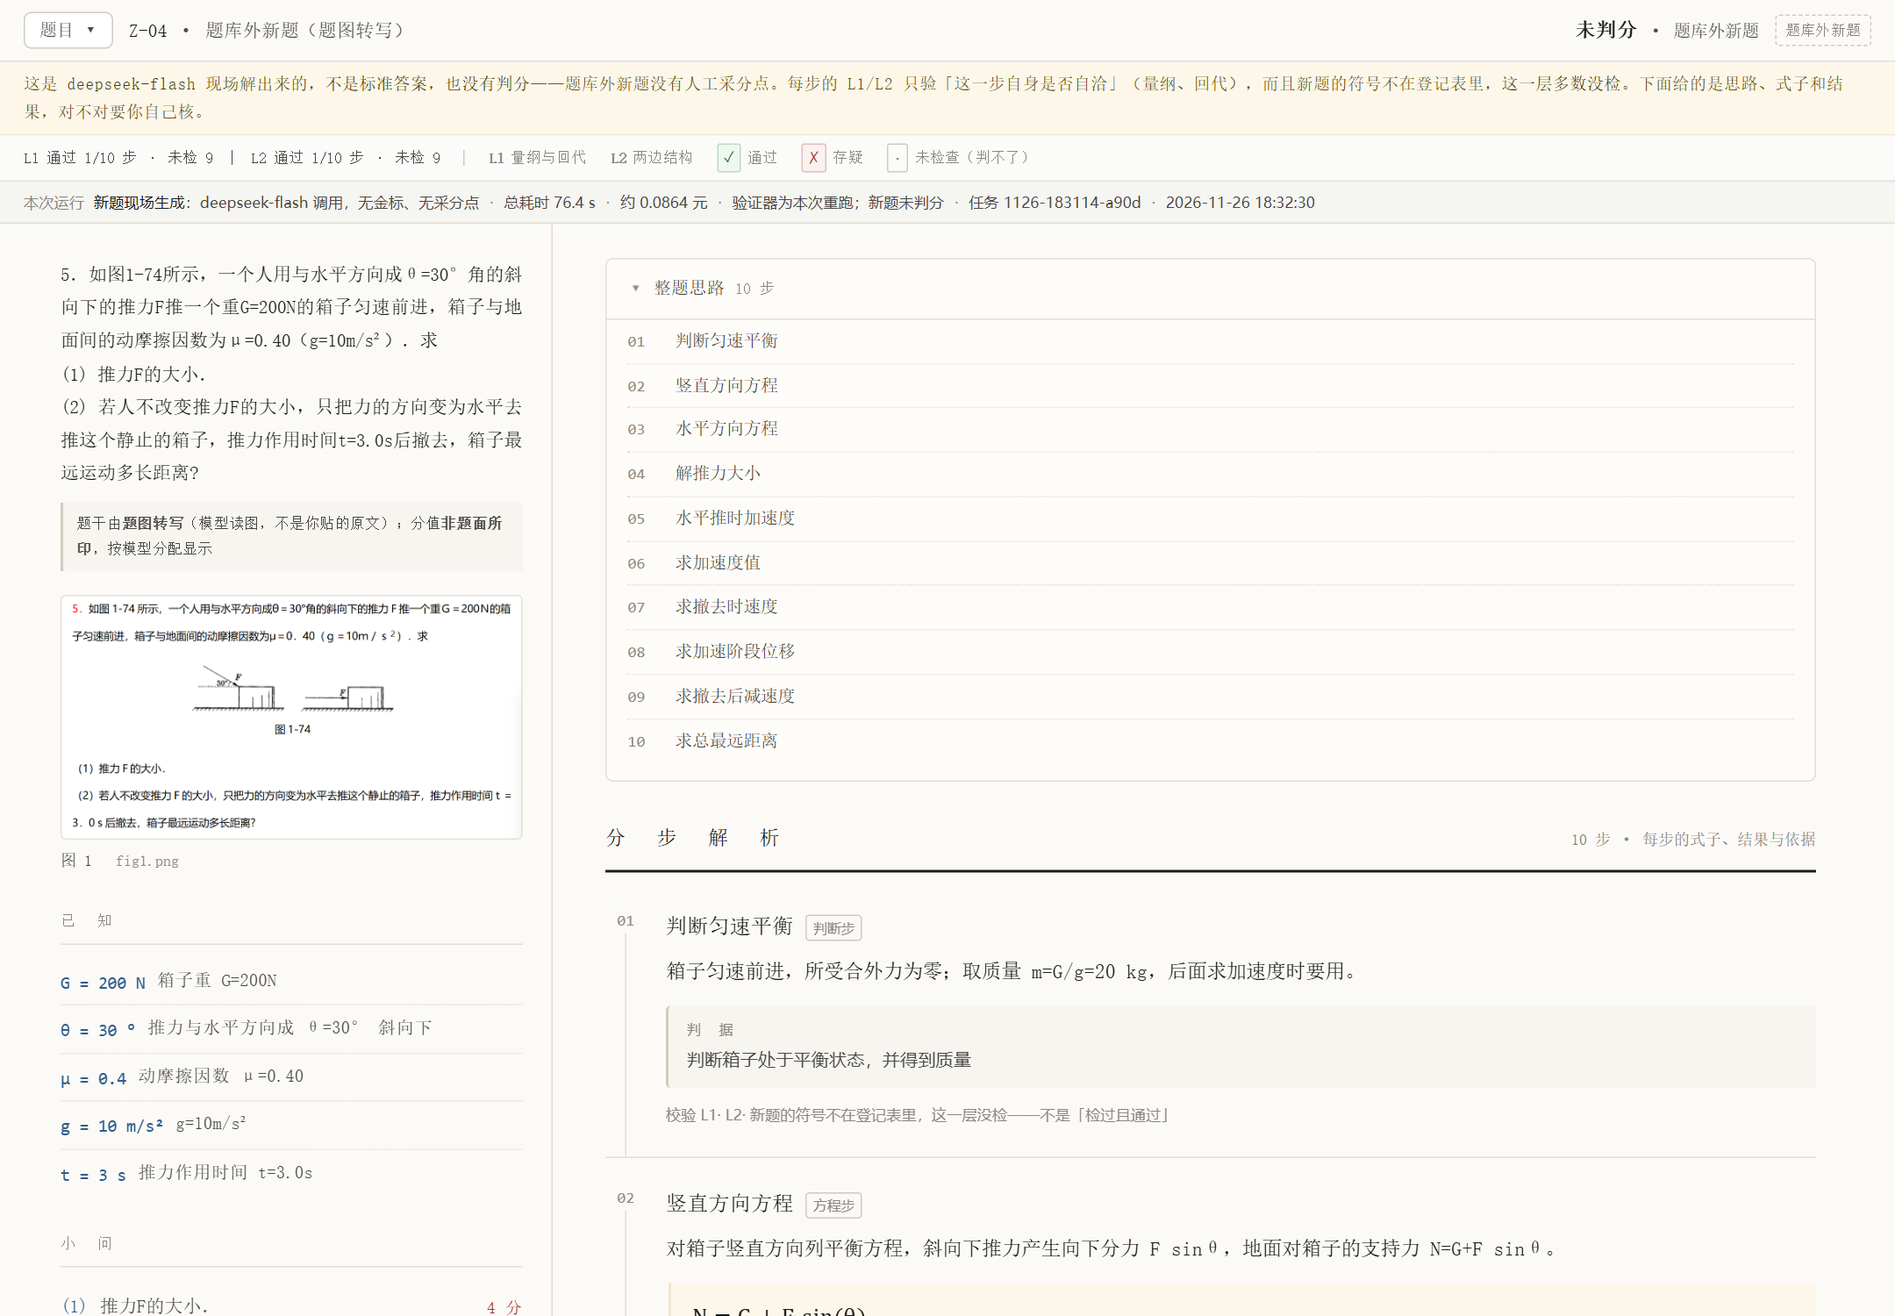
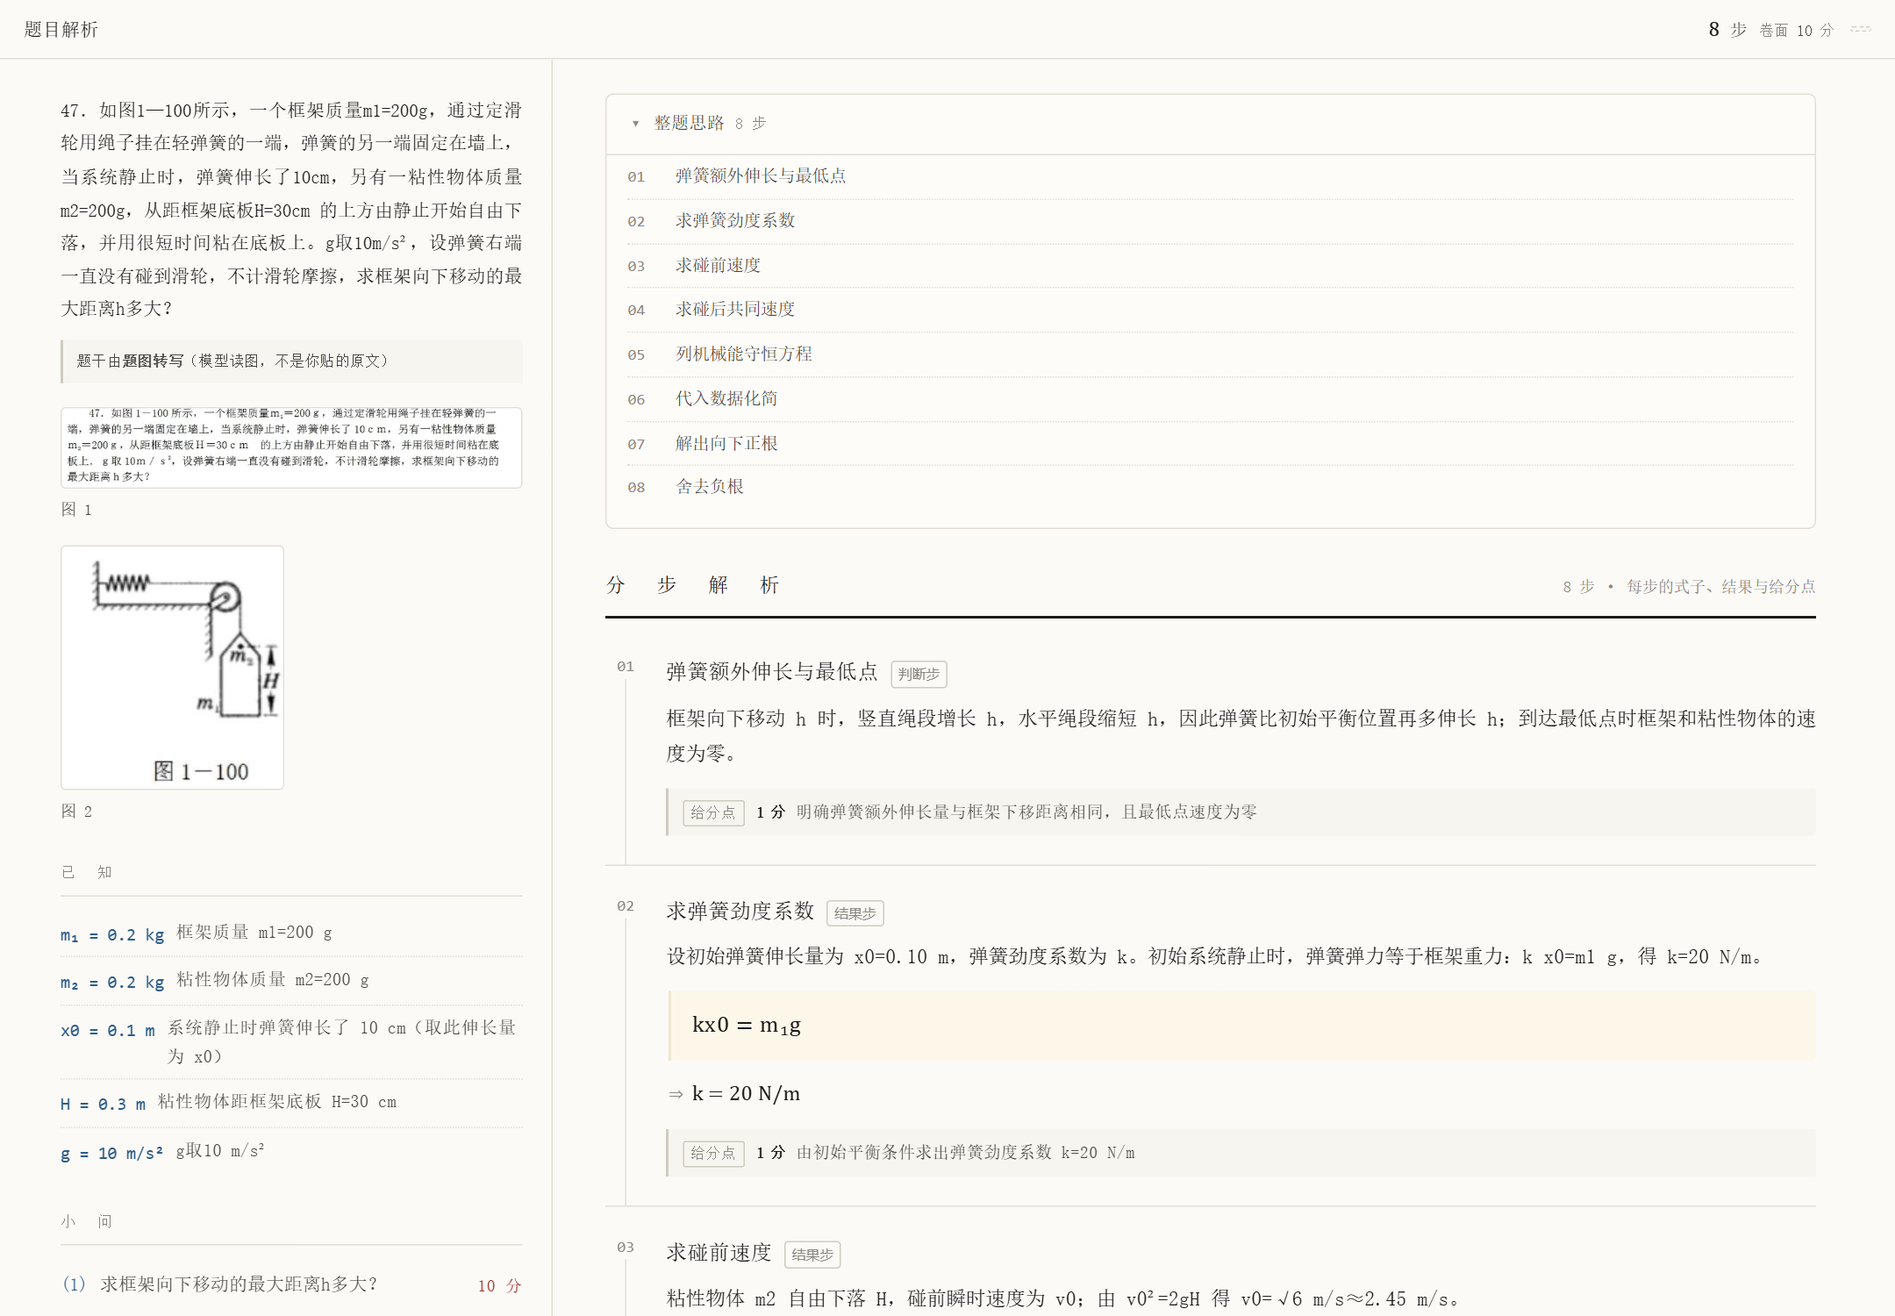
新题页改为客户视图：隐去内部账，每步加给分点
- 模板：mode=zero 默认 clean，隐藏 banner / L1L2 图例 / 运行信息条 / 采分点明细 / 每步校验记录 / raw 串 / 内部题号；?tech=1 复原
- 每步新增「给分点 N 分 · 说明」：随 zero_meta.display.points 落盘，旧任务回落到 {qid}_draft.json，不做命中判定
- 顶栏改「N 步 · 卷面 M 分」；页脚只留来源 + 分值合计 + 参考说明
- 题干来源判定补一条：用户贴的像占位话（无数字且远短于转写）时也用模型转写（Z-06 暴露的坑）
- 图注是上传文件名时不显示，只留「图 N」
- 验收：新题 16/16（带接口 23/23）、20 题静态 101/101

diff --git a/原型/模型解析_20题.html b/原型/模型解析_20题.html
@@ -301,6 +301,34 @@ button{font-family:inherit;cursor:pointer}
   font-family:var(--font-sans,"PingFang SC",sans-serif);
 }
 
+/* 每步给分点：给客户看的那一层。题库内 20 题不显示这一块（它们走判分器）。 */
+.ptline{
+  display:flex; align-items:baseline; gap:8px; flex-wrap:wrap;
+  margin:12px 0 0; padding:7px 11px; background:#f7f5ef;
+  border-left:2px solid var(--line2); border-radius:0 3px 3px 0;
+  font-size:12.5px; line-height:1.7; color:var(--ink2);
+}
+.ptline .pt-lb{
+  font-size:10.5px; letter-spacing:.12em; color:var(--ink3);
+  border:1px solid var(--line2); border-radius:2px; padding:0 5px; flex:0 0 auto;
+}
+.ptline .pt-sc{
+  font-variant-numeric:tabular-nums; color:var(--ink); font-weight:600; flex:0 0 auto;
+}
+.ptline .pt-tx{flex:1 1 260px; min-width:0; text-align:justify}
+
+/* 客户视图：题库外新题的默认形态。内部账（校验标记、采分点明细、任务号、成本、raw 串）
+   一律不进正文；要看就加 ?tech=1。 */
+body.clean #banner,
+body.clean #legend,
+body.clean #runbar,
+body.clean #ptable,
+body.clean #qbtn,
+body.clean #qlist,
+body.clean .chkrec,
+body.clean .eq .raw{display:none !important}
+body.clean #paper{padding-top:26px}
+
 @media (max-width:1080px){
   #main{display:block}
   #side{
@@ -382,6 +410,12 @@ var LAWS    = DATA.laws || {};
 var IMAGES  = DATA.images || {};
 var IDS     = Object.keys(ANSWERS);
 var cur = IDS[0] || null;
+
+/* 客户视图：题库外新题默认只出「题目 + 思路 + 分步 + 每步给分点」。
+   内部账（L1/L2 标记、采分点明细、任务号、耗时成本、raw 串）默认不上页面，
+   加 ?tech=1 复原，给自己查问题时用。20 题页不受影响。 */
+var TECH  = /[?&]tech=1(?:&|$)/.test(location.search);
+var CLEAN = false;
 
 var $ = function (id) { return document.getElementById(id); };
 
@@ -611,6 +645,15 @@ var KIND_NAME = {
 
 function renderTop(a) {
   var m = a.meta || {};
+  if (CLEAN) {
+    /* 客户视图不露内部题号（Z-04 是我们自己的编号，不是卷面题号） */
+    $('qtitle').innerHTML = '<b>题目解析</b>';
+    var n = (a.steps || []).length, fs = m.full_score;
+    $('score').innerHTML = '<span class="cov"><b>' + n + '</b> 步</span>' +
+      (fs != null ? '<span class="sc">卷面 <b>' + num(fs) + '</b> 分</span>' : '');
+    $('mode').textContent = '';
+    return;
+  }
   $('qtitle').innerHTML = '<b>' + esc(m.answer_id) + '</b> · ' +
     esc(m.source || '') + (m.question_no != null ? ' 第' + m.question_no + '题' : '');
 
@@ -649,7 +692,8 @@ function renderTop(a) {
 function renderStemNote(a) {
   var d = a._display || {}, bits = [];
   if (d.stem_source === 'model_ocr') bits.push('题干由<b>题图转写</b>（模型读图，不是你贴的原文）');
-  if (d.scores_printed === false) bits.push('分值<b>非题面所印</b>，按模型分配显示');
+  /* 客户视图里「分值非题面所印」改由页脚统一说明（参考给分点），这里不重复 */
+  if (d.scores_printed === false && !CLEAN) bits.push('分值<b>非题面所印</b>，按模型分配显示');
   if (d.sub_text_from === 'model_ocr' && d.stem_source !== 'model_ocr') bits.push('小问文本取自题图转写');
   var el = $('stemnote');
   if (!el) return;
@@ -666,10 +710,16 @@ function renderSidebar(a) {
   } else {
     $('figures').innerHTML = figs.map(function (f) {
       var src = imgMap[f.fig_no];
-      var text = f.caption || '（原文无图题）';
+      var text = String(f.caption || '').trim();
+      /* 新题的图注是上传文件名（fig1.png），对客户没意义：只留「图 1」 */
+      if (/\.(png|jpe?g|webp|bmp|gif)$/i.test(text)) text = '';
+      if (!text) text = src ? '' : '（原文无图题）';
       /* caption 自己常以「图甲：」「图 (a)：」开头，再加前缀会变成「图 1 图甲」 */
-      var lead = /^图/.test(text) ? '' : ('图 ' + esc(f.fig_no) + '　');
-      var cap = '<div class="fig-cap"><span class="no">' + lead + '</span>' + esc(text) + '</div>';
+      var lead = /^图/.test(text) ? '' : ('图 ' + esc(f.fig_no));
+      var cap = (lead || text)
+        ? '<div class="fig-cap"><span class="no">' + lead +
+          (lead && text ? '　' : '') + '</span>' + esc(text) + '</div>'
+        : '';
       if (src) {
         return '<div class="fig"><img src="' + esc(src) + '" alt="图 ' + esc(f.fig_no) + '">' + cap + '</div>';
       }
@@ -893,7 +943,9 @@ function whyHTML(step) {
   var cand = [];
 
   var crit = (step.criterion && step.criterion.text) || '';
-  if (crit && similar(crit, stmt) < 0.6) {
+  /* 新题的 criterion 就是模型写的给分点原文，客户视图里已经在「给分点」行给出，
+     再挂一条「判据」就是同一句话说两遍。 */
+  if (crit && !CLEAN && similar(crit, stmt) < 0.6) {
     cand.push({ lb: '判　据', tx: crit, trap: false });
   }
 
@@ -917,14 +969,29 @@ function whyHTML(step) {
   }).join('');
 }
 
+/* 每步给分点：模型在草稿里写的 score / point，随 zero_meta 落到 _display.points。
+   这一层只讲「这一步值几分、分给的是什么」，不做命中判定（新题不判分）。 */
+function ptLineHTML(p) {
+  if (!p || (p.score == null && !p.text)) return '';
+  return '<div class="ptline">' +
+    '<span class="pt-lb">给分点</span>' +
+    (p.score != null ? '<span class="pt-sc">' + num(p.score) + ' 分</span>' : '') +
+    (p.text ? '<span class="pt-tx">' + esc(p.text) + '</span>' : '') +
+    '</div>';
+}
+
 function renderSteps(a) {
   var steps = a.steps || [], hits = hitMap(a);
   if (!steps.length) {
     $('steps').innerHTML = '<div class="empty">这道题没有步骤数据。</div>';
     return;
   }
+  var pts = {};
+  ((a._display && a._display.points) || []).forEach(function (p) {
+    if (p && p.step_no != null) pts[p.step_no] = p;
+  });
   $('paper-note').textContent = (a.meta && a.meta.mode === 'zero')
-    ? steps.length + ' 步 · 每步的式子、结果与依据'
+    ? steps.length + ' 步 · 每步的式子、结果与给分点'
     : steps.length + ' 步 · 逐步给出分值与依据';
 
   $('steps').innerHTML = steps.map(function (s) {
@@ -960,6 +1027,7 @@ function renderSteps(a) {
       lawHTML(s.law_ids) +
       (s.statement ? '<div class="stmt">' + esc(s.statement) + '</div>' : '') +
       eqBlock + valueHTML(s, disp) + whyHTML(s) +
+      ptLineHTML(pts[s.step_no] || null) +
       checksHTML(s, a.meta && a.meta.mode === 'zero') +
       '</section>';
   }).join('');
@@ -969,6 +1037,18 @@ function renderFoot(a) {
   var m = a.meta || {}, g = a.grading || {};
   var t = a.triage || {};
   var zero = m.mode === 'zero';
+  if (CLEAN) {
+    var cb = [];
+    cb.push('题目来源：' + esc(m.source || '未记'));
+    if (m.full_score != null) {
+      /* 不写「按题干标注合计」：有的题面没印分值、有的旧任务没记 scores_printed，
+         断不出来的事不写死，只报「各小问分值合计」这个恒真的说法。 */
+      cb.push('卷面总分：' + num(m.full_score) + ' 分（各小问分值合计）');
+    }
+    cb.push('解析与分值由 AI 生成，仅供参考；每步「给分点」是按步给出的参考评分要点，不是官方评分标准。');
+    $('foot').innerHTML = cb.join('<br>');
+    return;
+  }
   var bits = [];
   bits.push('题目来源：' + (m.source || '未记') + (m.question_no != null ? ' 第' + m.question_no + ' 题' : ''));
   if (zero) {
@@ -1032,8 +1112,10 @@ function renderRunbar() {
 }
 
 function renderAll() {
-  renderRunbar();
   var a = ANSWERS[cur];
+  CLEAN = !TECH && !!(a && a.meta && a.meta.mode === 'zero');
+  document.body.classList.toggle('clean', CLEAN);
+  renderRunbar();
   if (!a) {
     $('steps').innerHTML = '<div class="empty">没有数据。<br><br>' +
       '在工作区运行 <code>python 原型/_build.py</code> 注入 answer JSON。</div>';

diff --git a/原型/_selftest_新题.py b/原型/_selftest_新题.py
@@ -8,9 +8,11 @@
 验什么：
 1. 首页有「贴一道新题」面板，textarea / 文件框 / 按钮都在
 2. POST /api/zero 的入参校验（空题干、太短、图太多）——不触发真实解题，不花钱
-3. 结果页：顶栏写「未判分」而不是 0 分；无 null/undefined/NaN/data_error/raw
-4. 结果页：页脚说明「本题不判分」；校验记录说人话；无 JS 报错
-5. 小问分值与题干标注一致（4/4/4 之类，从 doc 里读，不写死）
+3. 客户视图（默认）：只有「题目 + 思路 + 分步 + 每步给分点」；内部账（校验标记、
+   采分点明细、任务号、耗时成本）一律不出现；顶栏写步数与卷面分，不写 0/N
+4. 每步给分点数量与步数一致，分值合计等于卷面分
+5. 技术视图（?tech=1）：内部账复原，校验记录必须是「没检」不能是「通过」
+6. 小问分值与题干标注一致（从产物读，不写死）
 
 不会调用模型：只验收已经落盘的任务页与接口的拒绝分支。
 """
@@ -121,34 +123,68 @@ def main() -> int:
             chk("有开始按钮", pg.query_selector("#go") is not None)
             n_before = len(errs)
 
-        # ---------- 结果页 ----------
+        # ---------- 结果页：客户视图（默认） ----------
         pg.goto((jd / "result.html").resolve().as_uri(), wait_until="load")
         pg.wait_for_timeout(400)
         body = pg.inner_text("body")
 
         score = pg.inner_text("#score")
-        chk("顶栏写「未判分」", "未判分" in score, score[:60])
+        chk("顶栏写步数", re.search(r"\d+\s*步", score) is not None, score[:60])
         chk("顶栏不出现 0/N 分", not re.search(r"\b0/\d+\s*分", score), score[:60])
-        chk("模式标为题库外新题", "题库外新题" in pg.inner_text("#mode"))
+        chk("客户视图不露内部题号与模式",
+            pg.inner_text("#qtitle").strip() == "题目解析"
+            and not pg.inner_text("#mode").strip(),
+            pg.inner_text("#qtitle") + " | " + pg.inner_text("#mode"))
 
         bad = {k: body.count(k) for k in ("null", "undefined", "NaN", "data_error", "raw:")}
         chk("无内部占位串", sum(bad.values()) == 0, bad)
+        noise = [k for k in ("本次运行", "总耗时", "采分点明细", "校验 L1", "任务 1", "未判分")
+                 if k in body]
+        chk("客户视图不出现内部账", not noise, noise)
 
         n_steps = len(pg.query_selector_all("#steps .step"))
         chk("步骤非空", n_steps == len(doc["steps"]) and n_steps > 0,
             "%d / doc %d" % (n_steps, len(doc["steps"])))
 
-        chk("页脚写明不判分", "本题不判分" in pg.inner_text("#foot"))
-        chk("页脚卷面分来自小问", "题干小问标注合计" in pg.inner_text("#foot"))
+        # 每步给分点：数量与步数一致，分值合计等于卷面分（两者都从产物读，不写死）
+        n_pt = len(pg.query_selector_all("#steps .ptline"))
+        chk("每步都有给分点", n_pt == n_steps, "%d / %d 步" % (n_pt, n_steps))
+        zm_p = jd / "zero_meta.json"
+        zm = json.loads(zm_p.read_text(encoding="utf-8")) if zm_p.exists() else {}
+        pts = (zm.get("display") or {}).get("points") or []
+        if not pts:
+            dp = next(iter(jd.glob("*_draft.json")), None)
+            if dp:
+                dr = json.loads(dp.read_text(encoding="utf-8"))
+                pts = [{"score": s.get("score")} for s in dr.get("steps") or []]
+        pt_sum = sum(float(s.get("score") or 0) for s in pts)
+        full = doc["meta"].get("full_score")
+        chk("给分点分值合计等于卷面分",
+            full is None or abs(pt_sum - float(full)) < 1e-6, "%s / %s" % (pt_sum, full))
 
-        # 校验记录必须是「没检」，不能是「检过且通过」
-        chkrec = pg.inner_text("#steps")
-        chk("校验记录说人话", "登记表" in chkrec or "没检" in chkrec,
-            [x[:40] for x in chkrec.split("\n") if "校验" in x][:2])
+        foot = pg.inner_text("#foot")
+        chk("页脚写明参考性质", "不是官方评分标准" in foot and "仅供参考" in foot, foot[:80])
+        chk("页脚卷面分说明来源",
+            full is None or ("卷面总分" in foot and "分值合计" in foot), foot[:80])
+
+        # 客户视图不摊校验记录；技术视图才看得到，而且必须是「没检」不是「通过」
+        chk("客户视图不摊校验记录",
+            len([e for e in pg.query_selector_all("#steps .chkrec")
+                 if e.evaluate("e => e.offsetParent !== null")]) == 0)
+
+        pg.goto((jd / "result.html").resolve().as_uri() + "?tech=1", wait_until="load")
+        pg.wait_for_timeout(400)
+        tech_body = pg.inner_text("body")
+        chk("技术视图露内部账", "本次运行" in tech_body and "校验 L1" in tech_body)
+        chk("校验记录说人话", "登记表" in pg.inner_text("#steps") or "没检" in tech_body,
+            pg.inner_text("#steps")[:60])
         chk("无「校验 L1✓ L2✓」误报全过",
-            not (doc["validation"]["layers"].get("L1") == "na" and "L1✓" in chkrec
+            not (doc["validation"]["layers"].get("L1") == "na" and "L1✓" in tech_body
                  and all(c.get("status") == "na"
                          for s in doc["steps"] for c in (s.get("checks") or []))))
+
+        pg.goto((jd / "result.html").resolve().as_uri(), wait_until="load")
+        pg.wait_for_timeout(300)
 
         # 小问分值
         sub_txt = pg.inner_text("#subqs")

diff --git a/评测/T20/from_zero.py b/评测/T20/from_zero.py
@@ -126,7 +126,12 @@ def _resolve_stem(stem: str, draft: dict, issues: list) -> tuple[str, str]:
     if split_subquestions(s):
         return s, "user_paste"
     ms = str(draft.get("stem_text") or "").strip()
-    if ms and split_subquestions(ms):
+    # 模型转写不一定也带 (1)(2)：单问的题它常常只抄题干、或把编号抄丢（Z-06 就是）。
+    # 所以除「转写能切出小问」外，再加一条「用户那段像占位话」：
+    # 一个数字都没有、比转写短得多。真实题干几乎总带数字或单位，占位话不会。
+    looks_placeholder = bool(ms) and len(ms) >= 40 and len(ms) >= 1.5 * max(len(s), 1) \
+        and not re.search(r"[0-9０-９]", s)
+    if ms and (split_subquestions(ms) or looks_placeholder):
         issues.append("用户题干里切不出小问；改用模型读图转写的题干（%d 字）" % len(ms))
         return ms, "model_ocr"
     return s, "user_paste"
@@ -156,6 +161,11 @@ def build_from_zero(qid: str, draft: dict, stem: str, *,
             "scores_printed": True if SCORE_PAT.search(stem) else draft.get("scores_printed"),
             "sub_text_from": "model_ocr" if any(
                 "模型读图转写" in x or "模型转写" in x for x in issues) else "stem",
+            # 每步给分点：产物 schema 没有这两格，随 zero_meta 存一份，页面按 step_no 取。
+            "points": [{"step_no": i,
+                        "score": s.get("score"),
+                        "text": str(s.get("point") or "").strip()}
+                       for i, s in enumerate(steps_in, 1)],
         })
     full = sum(q["score"] for q in subs if q["score"] is not None)
     if not full:

diff --git a/app.py b/app.py
@@ -234,6 +234,7 @@ def render_result(job: dict) -> Path:
 
     if job["mode"] == "zero":
         doc["grading"] = {}
+        doc.setdefault("_display", {})
         zmeta_p = jd / "zero_meta.json"
         if zmeta_p.exists():
             try:
@@ -242,6 +243,21 @@ def render_result(job: dict) -> Path:
                 doc["_display"]["issues"] = zd.get("issues") or []
             except (ValueError, OSError):
                 pass
+        # 每步给分点：模型在草稿里写了 score / point，但产物 schema 里没这两格。
+        # 优先用 zero_meta.display.points（新跑的任务自带），老任务回落到草稿文件。
+        if not doc["_display"].get("points"):
+            draft_p = jd / f"{qid}_draft.json"
+            if draft_p.exists():
+                try:
+                    dr = json.loads(draft_p.read_text(encoding="utf-8"))
+                    raw_steps = sorted(dr.get("steps") or [],
+                                       key=lambda s: int(s.get("no") or 0))
+                    doc["_display"]["points"] = [
+                        {"step_no": i, "score": s.get("score"),
+                         "text": str(s.get("point") or "").strip()}
+                        for i, s in enumerate(raw_steps, 1)]
+                except (ValueError, OSError, TypeError):
+                    pass
         sref = jd / f"{qid}_symbols.json"
         doc["symbols"] = (json.loads(sref.read_text(encoding="utf-8"))
                           if sref.exists() else {"steps": {}, "givens": []})

diff --git a/README.md b/README.md
@@ -62,6 +62,15 @@ python app.py --port 8765 --live
 
 差别只在「有没有金标」。题库内的字段转换大量 `deepcopy(gold)`；新题没有金标，题干、小问、物体表、目标量都改由模型输出提供。
 
+### 新题页的两种视图
+
+新题（`mode=zero`）默认出**客户视图**：只有题目、整题思路、分步解析、每步给分点，页脚一行「AI 生成，仅供参考」。
+
+- 不出现：L1/L2 校验标记、采分点明细、任务号、耗时与成本、`raw:` 原始表达式、内部题号（`Z-06` 这类）
+- 每步给分点 = 模型在草稿里写的 `score` / `point`，随 `zero_meta.json` 的 `display.points` 落到页面；**不做命中判定**（新题不判分），分值合计等于卷面分
+- 加 `?tech=1` 复原内部账，查问题时用：`/result/<job_id>?tech=1`
+- 题库内 20 题页不受影响，仍是判分视图
+
 ## 验收
 
 ```bash
